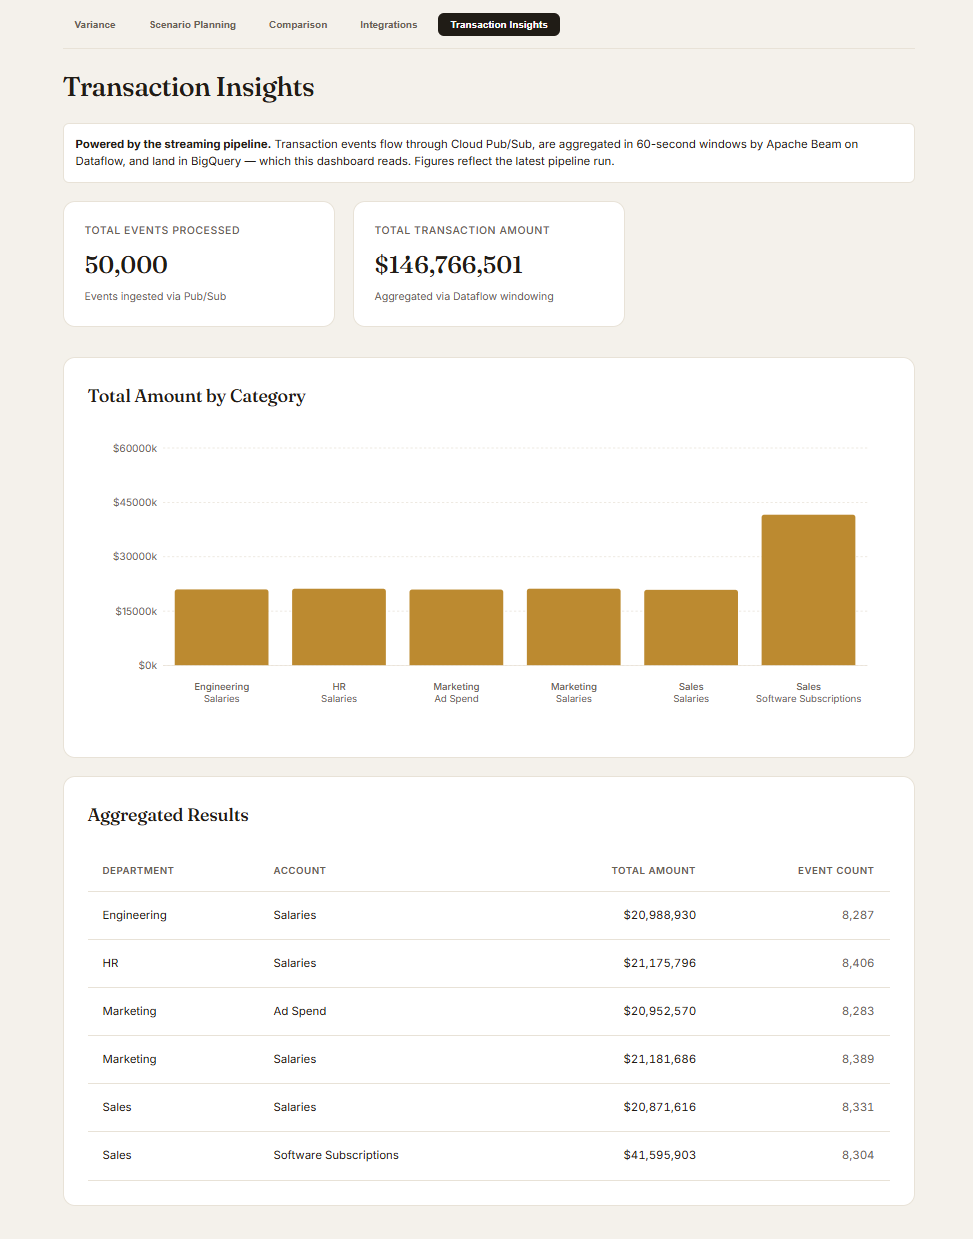
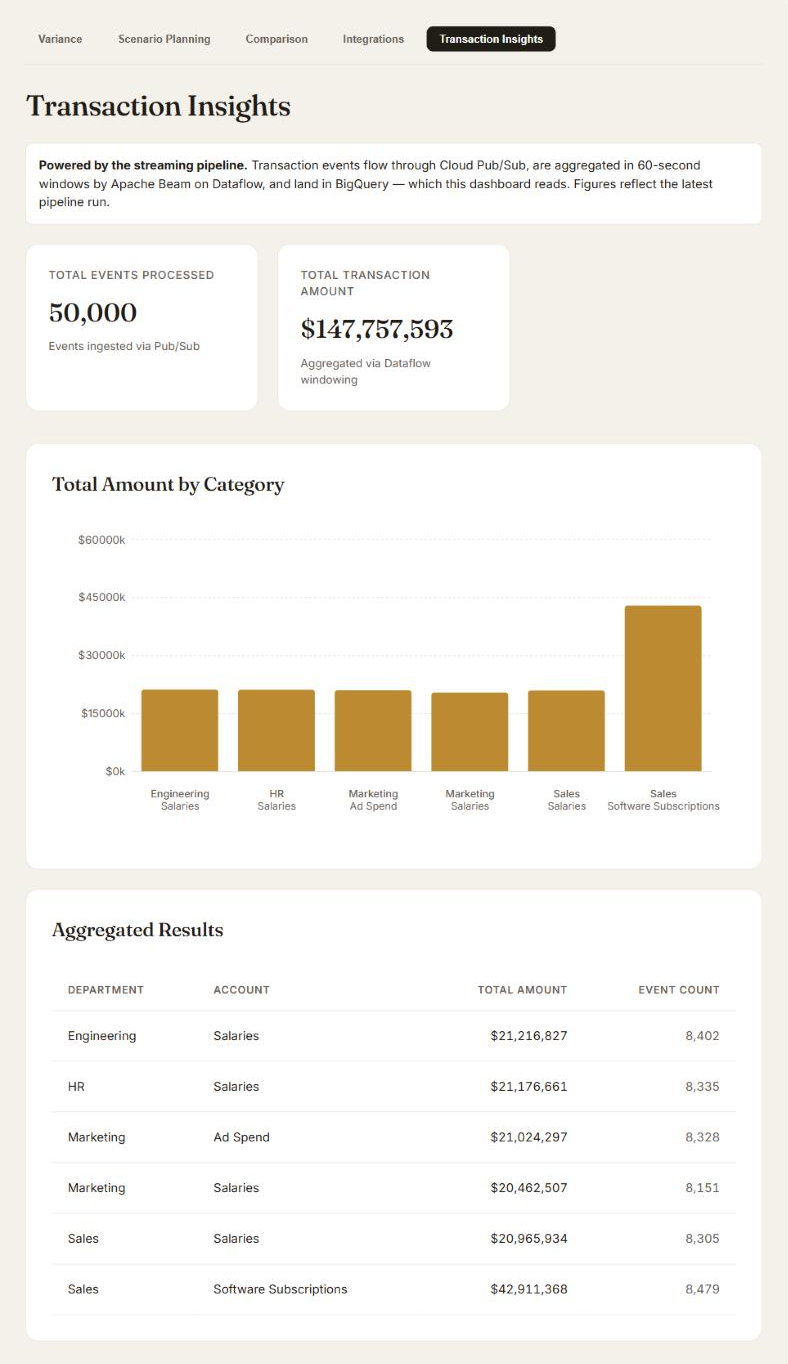
docs: refresh insights screenshot and reconciliation table from 50k Dataflow run

diff --git a/docs/scale-report.md b/docs/scale-report.md
@@ -71,13 +71,18 @@ table before sending, and the pipeline's BigQuery output must match it exactly.
 
 | Department / Account | Events | Total (USD) |
 |---|---|---|
-| Engineering / Salaries | 8,287 | 20,988,930.29 |
-| HR / Salaries | 8,406 | 21,175,795.62 |
-| Marketing / Ad Spend | 8,283 | 20,952,570.33 |
-| Marketing / Salaries | 8,389 | 21,181,685.85 |
-| Sales / Salaries | 8,331 | 20,871,616.09 |
-| Sales / Software Subscriptions | 8,304 | 41,595,902.99 |
-| **Total** | **50,000** | **146,766,501.17** |
+| Engineering / Salaries | 8,402 | 21,216,827.28 |
+| HR / Salaries | 8,335 | 21,176,661.33 |
+| Marketing / Ad Spend | 8,328 | 21,024,296.99 |
+| Marketing / Salaries | 8,151 | 20,462,506.77 |
+| Sales / Salaries | 8,305 | 20,965,933.54 |
+| Sales / Software Subscriptions | 8,479 | 42,911,367.53 |
+| **Total** | **50,000** | **147,757,593.44** |
+
+*The table is from the most recent 50,000-event Dataflow run (30 Oct 2026, after the demo
+moved to a new Google Cloud project); its BigQuery output is what the live demo's
+Transaction Insights tab reads. Amounts are random per run, so each run has different
+totals; every run is checked the same way, against the publisher's ground truth.*
 
 ## Measured performance
 
